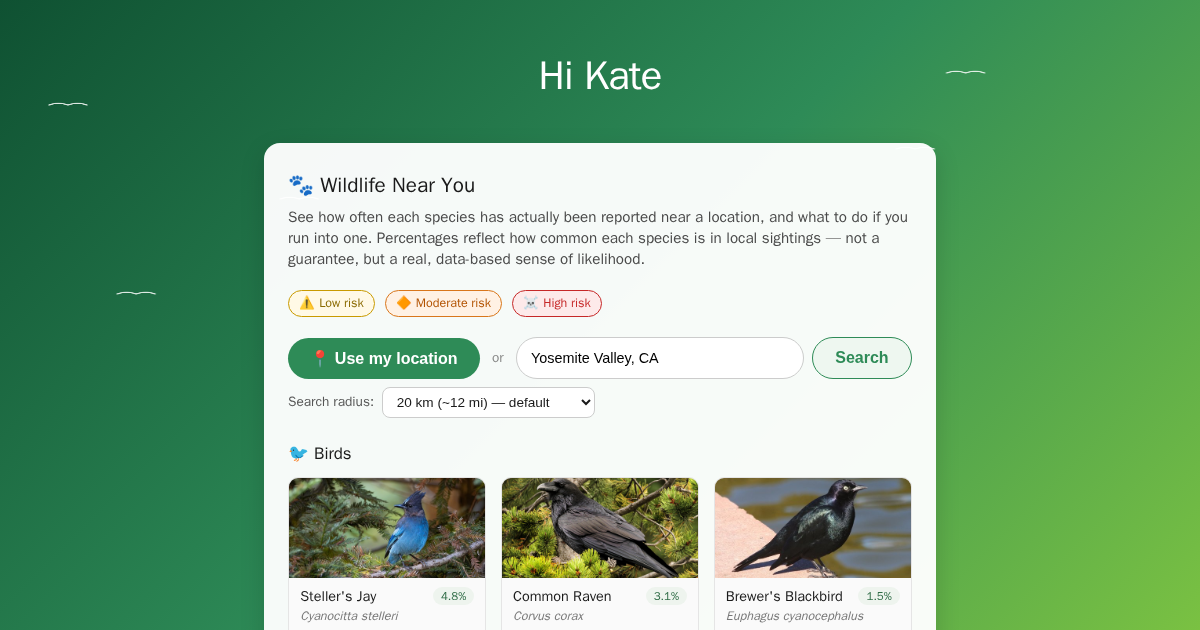
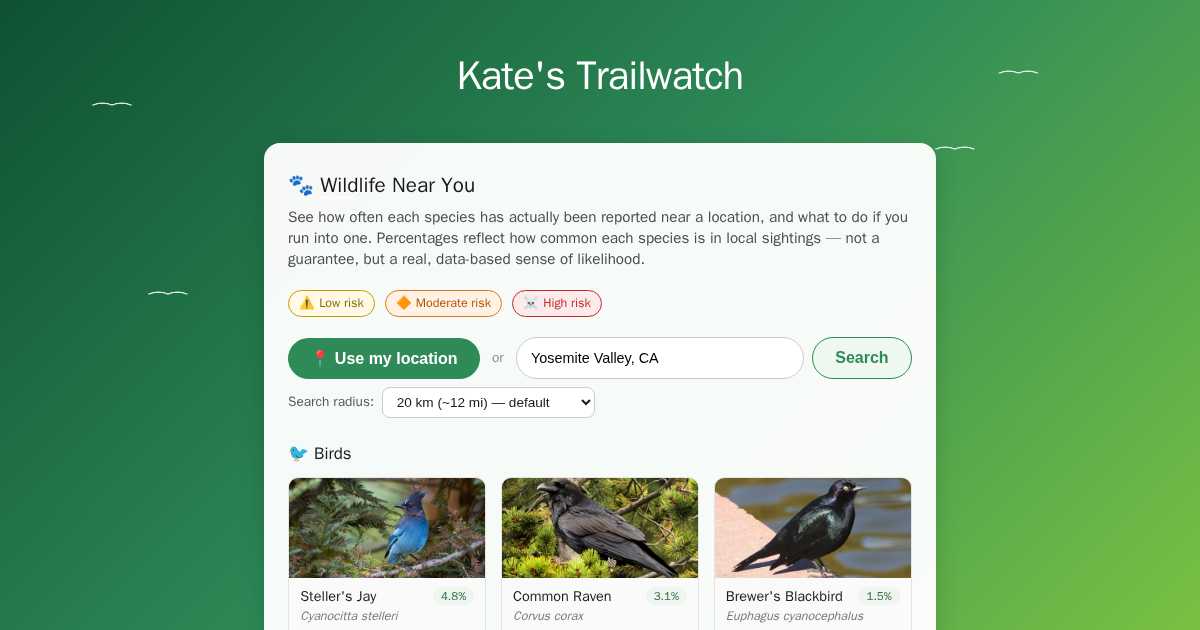
Rename app to Kate's Trailwatch
Replaces the "Hi Kate" placeholder greeting with a real app name that
describes what it does. Updates the page title, Open Graph/Twitter
meta tags, and regenerates the OG share image to match.

Claude-Session: https://claude.ai/code/session_01RfEi7iexkK4yDuJKGRRDtr

Changed region(s): [[0.37, 0.0905, 0.6167, 0.1508], [0.1233, 0.4524, 0.1542, 0.4825]]

diff --git a/index.html b/index.html
@@ -3,19 +3,19 @@
   <head>
     <meta charset="UTF-8" />
     <meta name="viewport" content="width=device-width, initial-scale=1.0" />
-    <title>Wildlife Near You – Hiking & Wildlife Safety Guide</title>
+    <title>Kate's Trailwatch – Hiking & Wildlife Safety Guide</title>
     <meta name="description" content="See real, recent wildlife sightings near any location — birds, snakes, mammals, and more — with danger levels, safety tips, seasonal activity, and species info for hikers and outdoor explorers." />
     <meta name="theme-color" content="#2e8b57" />
 
     <meta property="og:type" content="website" />
-    <meta property="og:title" content="Wildlife Near You – Hiking & Wildlife Safety Guide" />
+    <meta property="og:title" content="Kate's Trailwatch – Hiking & Wildlife Safety Guide" />
     <meta property="og:description" content="Real, recent wildlife sightings for any location, with danger levels, safety tips, and seasonal activity — built for hikers and outdoor explorers." />
     <meta property="og:image" content="/og-image.png" />
     <meta property="og:image:width" content="1200" />
     <meta property="og:image:height" content="630" />
 
     <meta name="twitter:card" content="summary_large_image" />
-    <meta name="twitter:title" content="Wildlife Near You – Hiking & Wildlife Safety Guide" />
+    <meta name="twitter:title" content="Kate's Trailwatch – Hiking & Wildlife Safety Guide" />
     <meta name="twitter:description" content="Real, recent wildlife sightings for any location, with danger levels, safety tips, and seasonal activity — built for hikers and outdoor explorers." />
     <meta name="twitter:image" content="/og-image.png" />
   </head>

diff --git a/src/main.js b/src/main.js
@@ -533,7 +533,7 @@ document.querySelector('#app').innerHTML = `
     ${bird()}${bird()}${bird()}${bird()}${bird()}
   </div>
   <div class="page">
-    <h1>Hi Kate</h1>
+    <h1>Kate's Trailwatch</h1>
 
     <section class="wildlife-panel">
       <h2>🐾 Wildlife Near You</h2>
